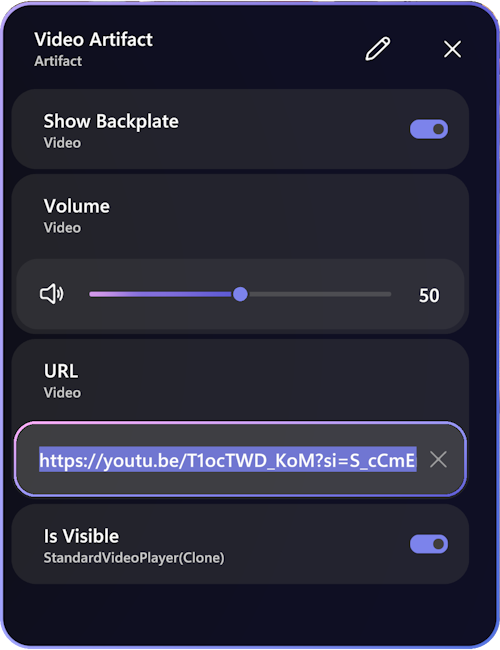
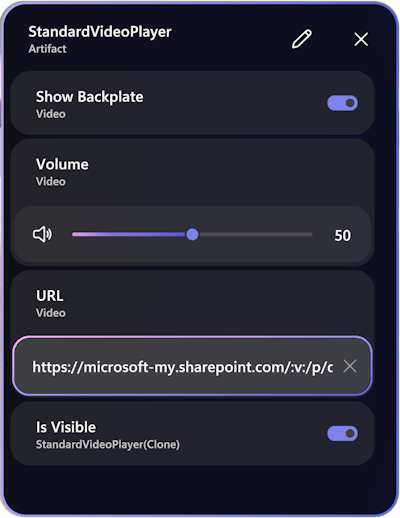
adding a note stating that youtube service links aren't supported with the current video artifact in Mesh

diff --git a/mesh/Resources/mesh-release-notes.md b/mesh/Resources/mesh-release-notes.md
@@ -3,7 +3,7 @@ title: Release notes for Mesh
 description: Mesh release notes
 author: qianw211    
 ms.author: qianwen
-ms.date: 9/8/2023
+ms.date: 9/12/2023
 ms.topic: Guide
 keywords: Microsoft Mesh, M365, Unity, API, release notes, reference, documentation, features, performance
 ---
@@ -43,8 +43,11 @@ The **Environment Editor** panel can help to add content to your Event or Templa
 3. Once you have added an artifact to the scene, your artifact will appear in front of your avatar and you can configure it in the Artifact Details panel that will appear on the right side of the screen. 
 
     ![A screenshot of the Artifacts details panel](media/video-artifact.png)
+
+    >[!Note]
+    >The video artifact in a Mesh event currently supports only direct links to video files (such as .MP4) stored on SharePoint or direct HTTPS URLs. Links to video services like YouTube or Vimeo are not supported.
  
-    The parameters you set here will determine your artifact configuration when your event starts. If you want to change the configuration live during your event, for example, show a different image or video as the event progresses. If you would like to make the artifact invisible until the right moment in your experience and then have it appear at the right moment you can do so using the [**Control Panel**](../use/events-guide/customize-event.md#prepare-content-with-the-control-panel). </mark>
+    The parameters you set here will determine your artifact configuration when your event starts. If you want to change the configuration live during your event, for example, show a different image or video as the event progresses. Or if you would like to make the artifact invisible until the right moment in your experience and then have it appear at the right moment you can do so using the [**Control Panel**](../use/events-guide/customize-event.md#prepare-content-with-the-control-panel).
 
 4. Anywhere you see a URL parameter, you should be able to copy and paste a share link from SharePoint or OneDrive for the image or video you would like to share. Make sure you either make the link accessible to anyone at your organization or set the permissions so that everyone who attends your events will have access. 
 1. To position your artifact - with the environment editor open:
